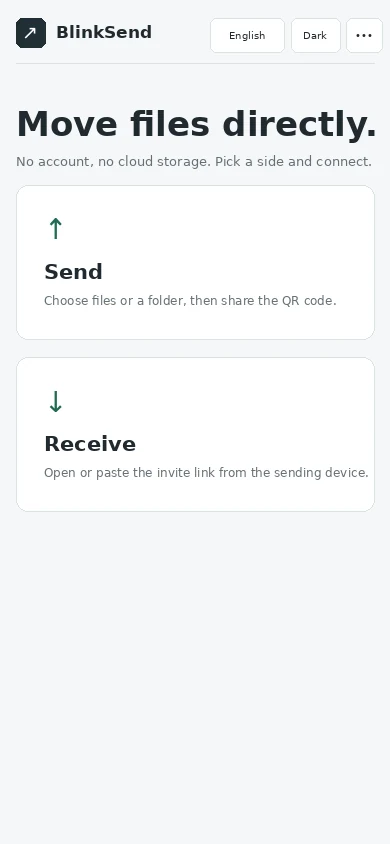
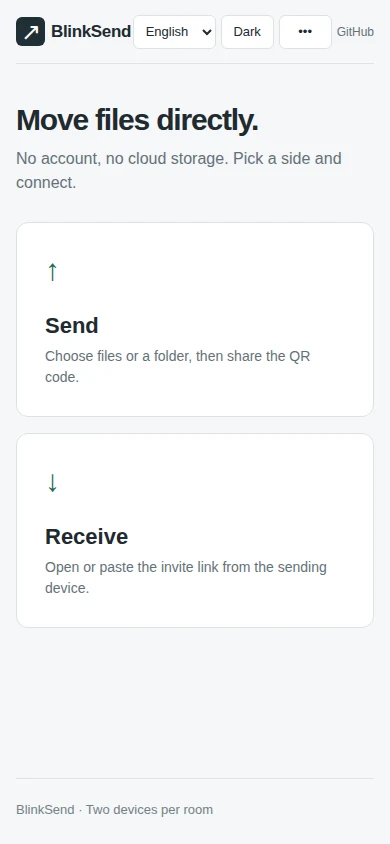
Replace README renders with real 30 FPS browser captures (#7)
* Capture README media from the real BlinkSend app

* Run real browser capture on media branch

* Fix README capture workflow branch ref

* Fix real browser capture script syntax

* Convert real browser screenshots to WebP after capture

* Fix README capture media push branch variable

* Capture real BlinkSend README media

* Keep real README capture workflow on demand

---------

diff --git a/README.md b/README.md
@@ -25,7 +25,7 @@
   <img src="docs/media/pairing.gif" width="720" alt="Animated BlinkSend pairing walkthrough with manual code and peer verification">
 </p>
 
-The pairing demo shows the current flow: enter the temporary eight-character code, compare the same six-digit DTLS fingerprint code on both devices, then confirm **Codes match**. The oversized cursor, eased movement, click ripples, and action labels are intentionally part of the walkthrough so the flow stays readable even when the GIF is viewed small.
+The pairing demo is recorded from two real BlinkSend Chromium sessions using the actual signaling and verification flow. The only added documentation layer is the oversized cursor, eased movement, click ripple, and short action label so the interaction stays readable on GitHub.
 
 ### Send, watch progress, verify
 
@@ -33,9 +33,9 @@ The pairing demo shows the current flow: enter the temporary eight-character cod
   <img src="docs/media/transfer.gif" width="720" alt="Animated BlinkSend transfer walkthrough with speed, ETA, progress and SHA-256 verification">
 </p>
 
-The transfer demo highlights Direct connection quality, live speed/ETA, whole-transfer progress, and the final SHA-256 verified state. The filenames, speeds, codes, and times shown in the documentation renders are illustrative rather than benchmark claims.
+The transfer demo is also captured from the running app: two real browser sessions pair, transfer a real local test file over BlinkSend's WebRTC path, display the live progress/speed/ETA UI, and reach the SHA-256 verified completion state. The test filename and measured speed are demonstration data, not benchmark claims.
 
-The README media is reproducible: `scripts/generate-readme-media.py` renders these assets, and the dedicated **Refresh README media** workflow can regenerate and commit them on demand after UI changes.
+The README media is reproducible: `scripts/capture-readme-media.mjs` launches the real BlinkSend server and Chromium, then the on-demand **Refresh README media** workflow captures and commits fresh browser screenshots plus 30 FPS GIFs after UI changes.
 
 ## Current flow
 
